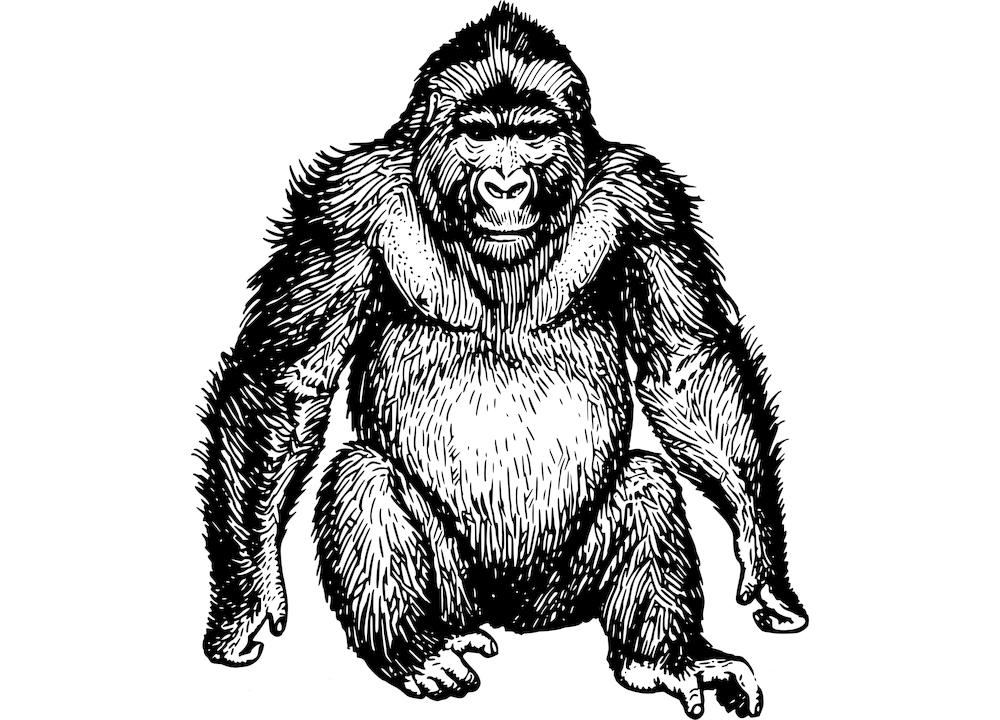
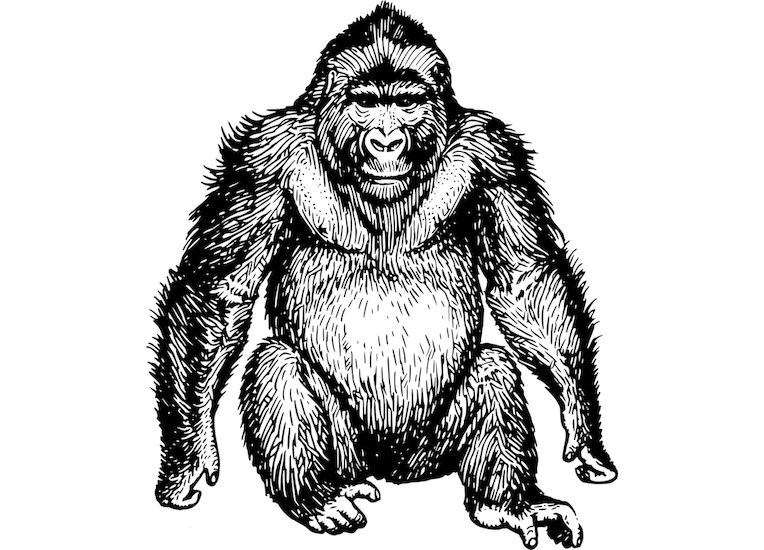
Tweaked resolution and added links

Changed region(s): [[0.1806, 0.0, 0.8128, 1.0], [0.5118, 0.6491, 0.5419, 0.68]]

diff --git a/team.html b/team.html
@@ -50,18 +50,18 @@
 						</article>
 						<div class="row">
 							<article class="col-4 col-12-mobile special">
-								<a class="image featured"><img src="images/adam.jpg" alt="" /></a>
+								<a class="image featured" href="https://www.linkedin.com/in/adam-finkle-ml/"><img src="images/adam.jpg" alt="" /></a>
 								<header>
-									<h3>Adam Finkle</h3>
+									<h3><a href="https://www.linkedin.com/in/adam-finkle-ml/">Adam Finkle</a></h3>
 								</header>
 								<p>
 									Co-Founder, Chief Executive and Technical Officer
 								</p>
 							</article>
 							<article class="col-4 col-12-mobile special">
-								<a class="image featured"><img src="images/grace.jpg" alt="" /></a>
+								<a class="image featured" href="https://www.linkedin.com/in/adam-finkle-ml/"><img src="images/grace.jpg" alt="" /></a>
 								<header>
-									<h3>Grace Reed</h3>
+									<h3><a href="https://www.linkedin.com/in/grace-reed-332a6013a/">Grace Reed</a></h3>
 								</header>
 								<p>
 									Co-Founder, Chief Science and Operations Officer
